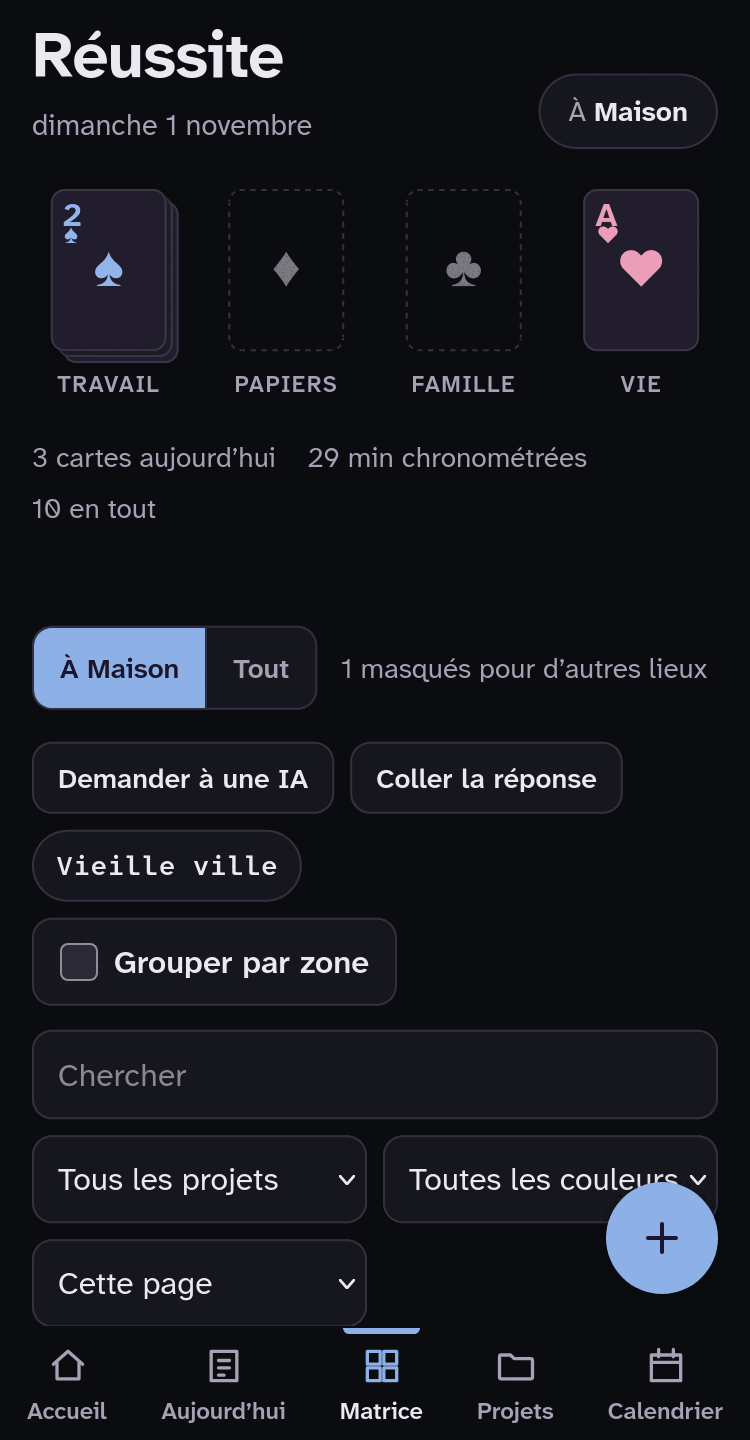
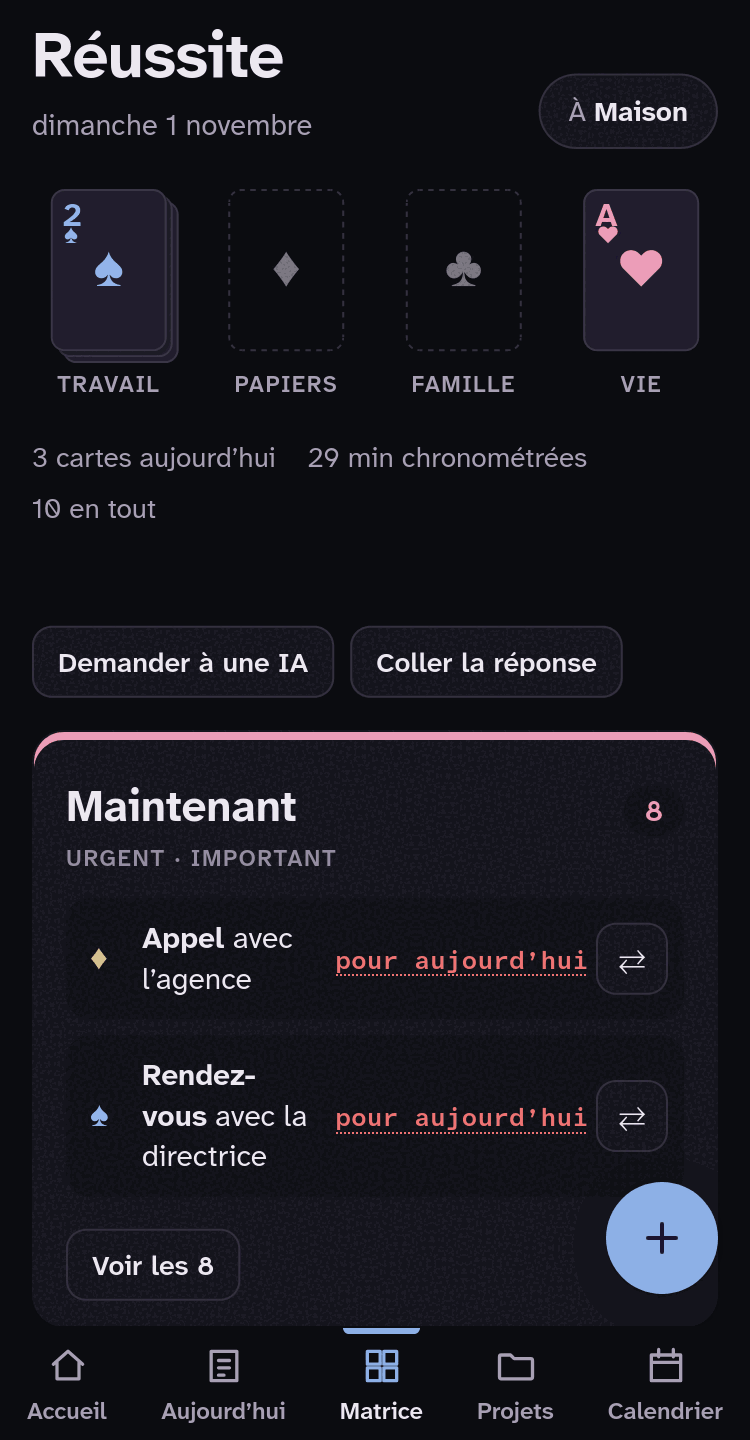
Manual, decisions and agent notes for the place menu and the Matrix boxes
The matrix, places and calendar pages in English and French, the four pictures
that changed (matrix, chain, areas, places) in both languages and themes, the
decisions (one menu, the view kept per device, no geolocation, no country level,
the boxes) and the layout notes.

diff --git a/AGENTS.md b/AGENTS.md
@@ -19,9 +19,9 @@ Réussite is a local-first PWA for planning with a CBT method for adult ADHD. Th
 
 ## Layout
 
-- `src/domain/` — pure functions with no I/O: dates and the day-start rule, urgency and quadrants, ratio, duration buttons, link resolution, repeats, chains (`chains.ts`: steps that wait for one another as one card, one pure index shared with the relay), event steps (`events.ts`: something waited for, its nudge and the Waiting for list), personal estimates, the planner, decision scores, stays, matrix moves, calendar grids, and Home's: the line parser (`parse.ts`, grammar in `docs/dev/home.md`), the greeting (`greeting.ts`: the card under it and the line above it, templates picked without repeats), the day's one order (`dayOrder.ts`: fixed-time items and the planned steps laid out against the clock; Start here on Home and Today, Today's list and the next-step bar all read it, `dayOrderOf` in `src/app/model.ts`), memory notes and their format in a prompt (`memory.ts`), memory import and export as Markdown (`memoryMd.ts`), and the one name-matching rule (`names.ts`: `findByName`, `mentions`); areas in use (`areas.ts`: select order, chips, grouping, half days; the rules of areas themselves are `places.ts`) and a person's page (`people.ts`); phase 4b's: a step's short name for calendars (`label.ts`) and areas of a place (in `places.ts`: `zoneOfPlace`, `onPage`, `placeAndAreas`, `parentProblem`); and phase 4's: Maps links (`mapsLink.ts`), the offers for addresses and people (`offers.ts`, and `offerPick.ts`: what a picked offer sets on the step), the Google Takeout parser (`takeout.ts`) and the trip pack's text (`trip.ts`); and phase 4b's: short names (`label.ts`), areas (`places.ts`), what the calendar exports say of a step (`calItems.ts`: the all-day events and the three levels of detail; `ics.ts` only formats), the feed's text (`feedText.ts`, shared with the connector) and what the Calendar tab shows on each day (`calView.ts`: the hour grid's events and the all-day row); and the morning's proposal (`propose.ts`: `proposeDay`, the candidates in five sections the AI words and ranks). Every rule here has a unit test.
+- `src/domain/` — pure functions with no I/O: dates and the day-start rule, urgency and quadrants, ratio, duration buttons, link resolution, repeats, chains (`chains.ts`: steps that wait for one another as one card, one pure index shared with the relay), event steps (`events.ts`: something waited for, its nudge and the Waiting for list), personal estimates, the planner, decision scores, stays, matrix moves, calendar grids, and Home's: the line parser (`parse.ts`, grammar in `docs/dev/home.md`), the greeting (`greeting.ts`: the card under it and the line above it, templates picked without repeats), the day's one order (`dayOrder.ts`: fixed-time items and the planned steps laid out against the clock; Start here on Home and Today, Today's list and the next-step bar all read it, `dayOrderOf` in `src/app/model.ts`), memory notes and their format in a prompt (`memory.ts`), memory import and export as Markdown (`memoryMd.ts`), and the one name-matching rule (`names.ts`: `findByName`, `mentions`); areas in use (`areas.ts`: select order, grouping, half days; the rules of areas themselves are `places.ts`), and what the lists look at (`view.ts`: the saved view, kept on the device under `reussite.placeview`, resolved against `here` with the fall-back to the region) and a person's page (`people.ts`); phase 4b's: a step's short name for calendars (`label.ts`) and areas of a place (in `places.ts`: `zoneOfPlace`, `onPage`, `placeAndAreas`, `parentProblem`); and phase 4's: Maps links (`mapsLink.ts`), the offers for addresses and people (`offers.ts`, and `offerPick.ts`: what a picked offer sets on the step), the Google Takeout parser (`takeout.ts`) and the trip pack's text (`trip.ts`); and phase 4b's: short names (`label.ts`), areas (`places.ts`), what the calendar exports say of a step (`calItems.ts`: the all-day events and the three levels of detail; `ics.ts` only formats), the feed's text (`feedText.ts`, shared with the connector) and what the Calendar tab shows on each day (`calView.ts`: the hour grid's events and the all-day row); and the morning's proposal (`propose.ts`: `proposeDay`, the candidates in five sections the AI words and ranks). Every rule here has a unit test.
 - `src/data/` — the data model (`schema.ts`), hybrid logical clock (`hlc.ts`), documents with per-field clocks and tombstones (`doc.ts`), Dexie database (`db.ts`), migrations, v1 importer, backups, settings defaults.
-- `src/app/` — state (`store.ts`: signals mirroring IndexedDB, and the only place that writes), read helpers (`model.ts`), write actions (`actions.ts`), shared UI and sheets, `More`/`Fold` (the folded optional fields of every form and the folded Settings sections, `More.tsx`), theme; Home's logic, exchanges and Undo (`home.ts`), the views and the hash (`nav.ts`), keyboard detection for the bottom bar (`keyboard.ts`), Memory's writes (`memoryActions.ts`), addresses and people (create, edit, record a visit, last seen: `actions.ts`; offers and categories: `model.ts`), the read-only banner's Reload (`reload.ts`), the "N done" fold under a list (`DoneFold.tsx`, with `splitDone` in `lists.ts`), the greeting lines already shown today (`greetingShown.ts`), the area filter per view (`areas.ts`) and its chips and editor (`AreaUi.tsx`), the Places sheet (`PlacesSheet.tsx`), Addresses and people's sheets and the after-visit screen (`AddressSheets.tsx`) and the Takeout import (`TakeoutSheet.tsx`).
+- `src/app/` — state (`store.ts`: signals mirroring IndexedDB, and the only place that writes), read helpers (`model.ts`), write actions (`actions.ts`), shared UI and sheets, `More`/`Fold` (the folded optional fields of every form and the folded Settings sections, `More.tsx`), theme; Home's logic, exchanges and Undo (`home.ts`), the views and the hash (`nav.ts`), keyboard detection for the bottom bar (`keyboard.ts`), Memory's writes (`memoryActions.ts`), addresses and people (create, edit, record a visit, last seen: `actions.ts`; offers and categories: `model.ts`), the read-only banner's Reload (`reload.ts`), the "N done" fold under a list (`DoneFold.tsx`, with `splitDone` in `lists.ts`), the greeting lines already shown today (`greetingShown.ts`), the area the lists are narrowed to (`areas.ts`, from the place menu's View) and the areas' tag and editor (`AreaUi.tsx`), the place menu (the pill's two ticks, I'm here and View, and the Places sheet that adds places and areas: `PlacesSheet.tsx`), Addresses and people's sheets and the after-visit screen (`AddressSheets.tsx`) and the Takeout import (`TakeoutSheet.tsx`).
 - `src/ai/` — AI (phase 2): provider adapters (`adapters.ts`), the one entry point `ask`/`askChanges` with "Show me what's sent" (`ask.ts`), prompt and context building (`context.ts`), the change-set contract (`changeset.ts`, documented in `docs/CHANGESET.md`), pure plan-and-apply (`apply.ts`) with the app's writer (`writer.ts`), the review screen (`Review.tsx`), the command box, Ask any AI and Paste the reply (`ui.tsx`), Settings → AI (`AiSettings.tsx`), the pure Undo shared with the relay (`undo.ts`), model prices and the monthly cap (`prices.ts`), and first-run set-up with an AI (`setup.ts`: its prompt, the pack for any chatbot and the reading of its reply; the ops are `settings.update` and `place.create`; `settings.update` is the app's only, the connector refuses it). "Plan this trip" (phase 4) builds its pack in `trip.ts` from a stay in Settings, and its reply comes back through Paste the reply; `address.create` is an op of the app only (the connector refuses it).
 - `src/push/` — Web Push (phase 3b): the shared types and limits (`protocol.ts`), RFC 8291 encryption (`encrypt.ts`), VAPID tokens (`vapid.ts`), the reconciler's diff (`reconcile.ts`), the notification payload (`notification.ts`), the relay calls (`client.ts`), what the browser supports (`support.ts`). The schedule itself is `src/domain/notify.ts`; the app side is `src/app/push.ts` and `NotifySettings.tsx`; see `docs/dev/push.md`.
 - `src/feed/` — the calendar feed's ids and limits shared with the relay (`protocol.ts`); the upload is `src/app/feed.ts`, the text is `src/domain/ics.ts`; see `docs/dev/feed.md`.

diff --git a/DECISIONS.md b/DECISIONS.md
@@ -415,3 +415,7 @@ One line each: date, decision, why.
 - 2026-11-02 · "Connect your AI chat app" in set-up (`ConnectStep`) is built from Settings' own pieces and does what Settings → Sync and → Connector do, in order: the privacy cost first, `setupSync` and the recovery key (kept now, or left for the Next steps), `connectorOn`, the address and a pairing code, and a check by the relay's `lastUsed` (asked every four seconds while the screen is open, and on a tap). Continue is never blocked on the check: the connector is on, and Settings → Connector can make a new code. A build with no relay address, or a relay without the connector's secret, says so plainly and leaves the connector on the Next steps.
 - 2026-11-02 · The connector's last known state is restored at start from the cached `connector.on` (and refreshed in the background, only when it was on), so the Next steps card drops the connector for someone who connected it without visiting Settings, and the offer below knows it is on. · Until now it was only known after Settings → Connector had been opened.
 - 2026-11-02 · With the connector on and no key, Plan the day (Home's greeting, Today's first card and button) and the Sunday review banner (Today, the bell) offer a second button, "Plan it in your AI chat" or "Review in your AI chat", beside the ritual or Start the review, which are unchanged. It copies one short sentence in the app's language and a toast says where to say it; it is not a link, so no app is opened or named, and the app makes no AI call. It is not shown with a key, where the AI proposal is already there. · Nothing leaves the device but what the person pastes themselves.
+- 2026-11-02 · One place menu, opened by the pill at the top right, with two ticks on each row: **I'm here** (where the person is: `settings.here`, a place or an area; a stay still wins, so the ticks wait while one runs) and **View** (what Today, the Matrix, Projects and the Calendar show). Rows are each place with its areas indented under it, then Everywhere (View only). It replaces the Places sheet's "View its page" and "I'm here" buttons, the area chips on Today, the Matrix and the Calendar, the Matrix's "Group by area", its "Where" select ("This page") and the In/Everything switch shared with Projects. "Places and areas…" at the bottom of the menu (and Home's menu → Places) opens the sheet that adds places and edits areas. The pill says "In {here}", or "Viewing {place}" / "Everywhere" when the view is elsewhere; the banner stays only for another region's page. · The owner's words: the location buttons are a dropdown in the pill, you tick "I'm here" and "view", and that filters; one control instead of five.
+- 2026-11-02 · The view is saved on the device (`localStorage` `reussite.placeview`, not synced; `reussite.view` was already the last open tab) as the place or area chosen and the region of `here` it was chosen in (`src/domain/view.ts`, `resolveView`). The default is the whole region (the top of `here`), so the app reopens on Islamic Cairo if that was viewed. It goes back to the region when `here` moves to another region (a stay starts, or I'm here ticked elsewhere), when the place or area has been deleted, or when it was made in another region; moving between areas of one region keeps it. Everywhere means the lists ignore place, as the old In/Everything switch did (`inPlace` with no place given, Projects, the addresses list); its page is still the region of `here`. An area narrows Today and the Calendar to its steps plus Anywhere's and the Matrix to its own alone (2026-10-28). Projects are not narrowed by an area; they are still grouped under it. · Same rules as the chips had, kept across restarts; a stored choice must never outlive the region it was made for.
+- 2026-11-02 · No geolocation: places have no coordinates, and the app learns where the person is only from "I'm here" or a stay that switches the place. There is no country level either: places nest one level (place, then area), enforced by `parentProblem`; a country would be a third level. · The app reads no location and stores none; a region is whatever the person calls a place.
+- 2026-11-02 · The Matrix is four boxes (two by two from 600 px, stacked below), not four long lists: each has its stripe, title, sub-label and count, its first two cards in the sort order it already had (priority first) and "View all {n}" (only when there are more than two) opening that quadrant whole in a sheet, with the same ⇄ move; an empty one shows its hint line. Drag between boxes, long-press and ⇄ are unchanged. Every card is also in one list in a fold at the bottom, "All cards ({n})", closed and built only once opened, each tagged with its quadrant and with the search and the project and suit filters, which are only there now. Obligations, the Cemetery and the axis note stay. · The owner's words: a designed quadrant with one or two of the most relevant cards and a view more button, not an infinite list, and an all-cards view folded away.

diff --git a/docs/manual/fr/places-and-trips.md b/docs/manual/fr/places-and-trips.md
@@ -6,11 +6,14 @@ Un **lieu** est un endroit où vous vivez, travaillez ou séjournez un moment. C
 
 ## Changer de lieu
 
-La pastille en haut d’Aujourd’hui, de la Matrice et des autres onglets dit où vous êtes (« À Maison »). Touchez-la, ou ouvrez **Lieux** dans le menu de l’accueil.
+La pastille en haut d’Aujourd’hui, de la Matrice et des autres onglets dit où vous êtes (« À Maison »). Touchez-la pour ouvrir le menu des lieux : chaque lieu, ses zones dessous, et **Tous les lieux**. Chaque ligne a deux cases.
 
-- **J’y suis** vous y place.
-- **Voir sa page** vous laisse regarder les étapes et les projets d’un autre lieu, pour le préparer, sans y aller. Un bandeau vous rappelle ce que vous regardez, avec un bouton pour revenir.
-- **+ Ajouter un lieu** en ajoute un. Donnez-lui un nom et un fuseau horaire.
+- **J’y suis** dit où vous êtes. Le plan et les rappels la suivent. Pendant un séjour, le lieu du séjour prend le relais et les cases attendent.
+- **Voir** dit quel lieu montrent Aujourd’hui, la Matrice, les Projets et le Calendrier. Au début, c’est tout le lieu où vous êtes. Cochez un autre lieu pour le préparer sans y aller (un bandeau vous rappelle ce que vous regardez, avec un bouton pour revenir), l’une de ses zones pour ne voir qu’elle, ou **Tous les lieux** pour voir tous les lieux à la fois. La pastille dit alors « Vue : Héliopolis » ou « Tous les lieux ».
+
+Votre choix est gardé sur cet appareil : l’appli se rouvre sur la zone que vous regardiez. Quand vous changez de lieu (un séjour commence, ou vous cochez J’y suis sur un lieu ailleurs), la vue revient à ce lieu. Réussite ne lit jamais votre position : il ne sait où vous êtes que si vous le dites ou si un séjour commence.
+
+**Lieux et zones…**, en bas du menu, sert à ajouter un lieu (et ses zones).
 
 Vous pouvez aussi ajouter des lieux dans Réglages → Méthode.
 
@@ -20,7 +23,7 @@ Une **zone** est un endroit à l’intérieur d’un lieu : Héliopolis au Cai
 
 Partout où vous choisissez un lieu, la liste montre chaque lieu suivi de ses zones. Une étape d’une zone est aussi sur la page de son lieu.
 
-Quand un lieu a des zones, une rangée de **pastilles** apparaît dans Aujourd’hui, la matrice et le calendrier. Touchez-en une pour ne voir que les étapes de cette zone, plus celles marquées Partout. Touchez-la de nouveau pour l’enlever. Le choix dure jusqu’à la fermeture de l’appli. Les listes sont groupées sous le nom de la zone.
+Pour ne voir qu’une zone, cochez **Voir** sur elle dans le menu des lieux : Aujourd’hui et le calendrier montrent alors les étapes de cette zone plus celles marquées Partout, et la matrice celles de la zone seule. Cochez de nouveau le lieu pour tout voir. Les listes sont groupées sous le nom de la zone.
 
 **Demi-journées.** Au point du matin, **Où serez-vous ?** vous laisse choisir un lieu ou l’une de ses zones pour le matin et pour l’après-midi. Le plan puise alors d’abord dans cette zone et garde ses étapes ensemble. Aujourd’hui et le calendrier montrent « Après-midi · Héliopolis ».
 

diff --git a/docs/manual/en/places-and-trips.md b/docs/manual/en/places-and-trips.md
@@ -6,13 +6,14 @@ A **place** is somewhere you live, work or stay for a while. Each place gets its
 
 ## Switching place
 
-The pill at the top of Today, the Matrix and the other tabs says where you are ("In Home"). Tap it, or open **Places** in Home's menu.
+The pill at the top of Today, the Matrix and the other tabs says where you are ("In Home"). Tap it to open the place menu: each place, its areas under it, and **Everywhere**. Each row has two boxes.
 
-- **I'm here** moves you there.
-- **View its page** lets you look at another place's steps and projects, to prepare it, without moving there. A banner reminds you what you're looking at, with a button to go back.
-- **+ Add a place** adds one. Give it a name and a time zone.
+- **I'm here** says where you are. Planning and reminders follow it. During a stay, the stay's place takes over and the boxes wait.
+- **View** says which place Today, the Matrix, Projects and the Calendar show. It starts as the whole place you are in. Tick another place to prepare it without moving there (a banner reminds you what you're looking at, with a button to go back), one of its areas to see only that area, or **Everywhere** to see every place at once. The pill then reads "Viewing Heliopolis" or "Everywhere".
 
-You can also add places in Settings → Method.
+Your choice is kept on this device, so the app reopens on the area you were viewing. When you move to another place (a stay starts, or you tick I'm here on a place somewhere else), the view goes back to that place. Réussite never reads your location: it does not know where you are until you say so or a stay starts.
+
+**Places and areas…** at the bottom of the menu is where you add a place (and its areas). You can also add places in Settings → Method.
 
 ## Areas
 
@@ -20,7 +21,7 @@ An **area** is somewhere inside a place: Heliopolis in Cairo. Add one under the 
 
 Where you choose a place, the list shows each place followed by its areas. A step in an area is on its place's page too.
 
-When a place has areas, a row of **chips** appears on Today, the matrix and the calendar. Tap one to see only that area's steps, plus those set to Anywhere. Tap it again to clear. The choice lasts until you close the app. Lists are grouped under the area's name.
+To see only one area, tick **View** on it in the place menu: Today and the calendar then show that area's steps plus those set to Anywhere, and the matrix the area's alone. Tick the place again to see it all. Lists are grouped under the area's name.
 
 **Half days.** In the morning check-in, **Where will you be?** lets you pick a place or one of its areas for the morning and for the afternoon. The plan then draws on that area first and keeps its steps together. Today and the calendar show "Afternoon · Heliopolis".
 

diff --git a/docs/manual/en/matrix.md b/docs/manual/en/matrix.md
@@ -1,6 +1,6 @@
 # The matrix
 
-The matrix sorts your steps in four quadrants. Urgency and importance are judged **separately**.
+The matrix sorts your steps in four boxes. Each shows its first two steps and **View all** for the rest; every step is also in one list, folded at the bottom. Urgency and importance are judged **separately**.
 
 ![The matrix](shot:matrix)
 
@@ -25,16 +25,17 @@ If you move a step into an urgent quadrant, Réussite asks: "Urgent means a date
 
 ## Moving, filtering and searching
 
-- Drag a step to another quadrant, or long-press it on a phone. Or open the step and use **Move to…**.
-- Filter by project or suit, or search your steps.
-- **In Home** shows this place's steps and the ones marked Anywhere. **Everything** shows all.
+- Drag a step to another box, or long-press it on a phone. Or tap its **⇄** button, or open the step and use **Move to…**.
+- **View all 5** under a box opens that quadrant's steps in a sheet.
+- **All cards** at the bottom opens one list of every step, each with its quadrant named. Search, and filter by project or suit, there.
+- The matrix shows the place you chose to view in the place pill (see [Places and trips](places-and-trips.md)): that place's steps and the ones marked Anywhere, or every step with **Everywhere**.
 - Change a due date wherever a step appears.
-- If your place has **areas**, a row of chips narrows the matrix to the steps set to that area alone (not the place's own, not Anywhere's). Tap the chip again to clear it. **Group by area** sorts each quadrant by area. The choice lasts until you close the app.
+- If you view one of the place's **areas**, the matrix shows the steps set to that area alone (not the place's own, not Anywhere's).
 - A step that waits for another shows once, as one card: the first step, with "+2 after" under its title. Tap it to unfold the rest, greyed. When the first is done, the next takes its place.
 
 ![A chain, unfolded under its first step](shot:chain)
 
-![The matrix narrowed to one area](shot:areas)
+![The place menu, with an area to view](shot:areas)
 
 ## Steps
 

diff --git a/docs/manual/fr/calendar.md b/docs/manual/fr/calendar.md
@@ -23,7 +23,7 @@ Touchez un événement pour ouvrir l’étape. Touchez le numéro d’un jour po
 - **Changer une heure ou un jour :** faites glisser une étape à heure fixe sur la grille. Elle se déplace par pas de 15 minutes.
 - Sur un téléphone, touchez une étape pour l’ouvrir et changer son heure ou son jour là.
 
-Si votre lieu a des zones, les **pastilles de zone** réduisent le calendrier à une zone, plus ce qui s’applique partout.
+Si vous regardez l’une des zones de votre lieu (la pastille du lieu), le calendrier montre cette zone, plus ce qui s’applique partout.
 
 ## Ajouter au calendrier
 

diff --git a/docs/manual/en/calendar.md b/docs/manual/en/calendar.md
@@ -23,7 +23,7 @@ Tap an event to open the step. Tap a day's number to open that day.
 - **Change a time or a day:** drag a timed step on the grid. It moves in steps of 15 minutes.
 - On a phone, tap a step to open it and change its time or day there.
 
-If your place has areas, the **area chips** narrow the calendar to one area, plus what applies anywhere.
+If you view one of your place's areas (the place pill), the calendar shows that area, plus what applies anywhere.
 
 ## Add to calendar
 
